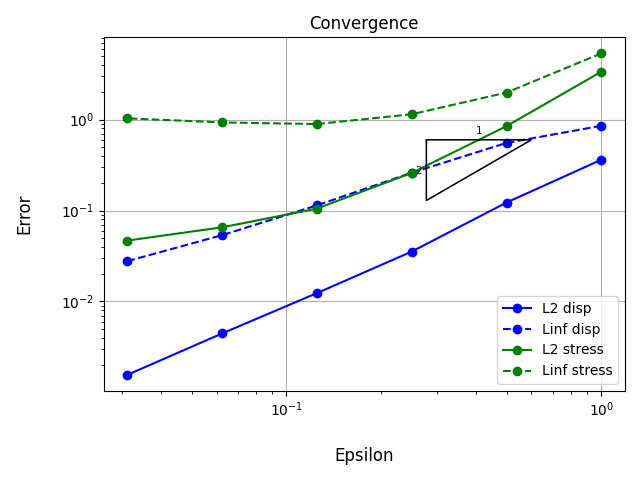
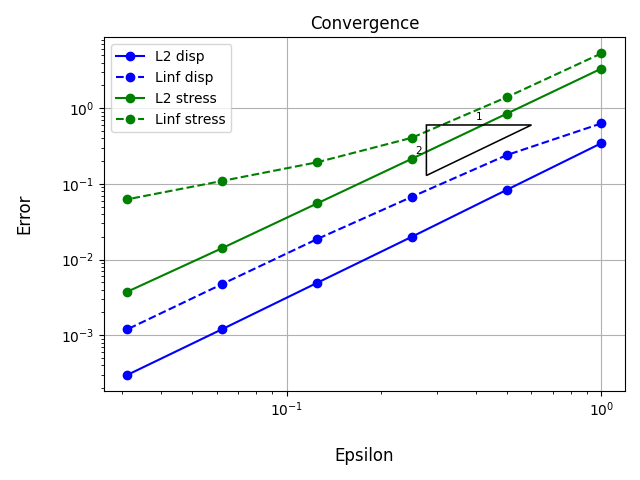
final fix for dirichlet bc

diff --git a/xlb/experimental/thermo_mechanical/solid_bounceback.py b/xlb/experimental/thermo_mechanical/solid_bounceback.py
@@ -73,7 +73,7 @@ class SolidsDirichlet(Operator):
                         #bounceback with zero order correction
                         f_current[new_direction, i, j, 0] = f_previous[l, i, j, 0] + 6.0 * weight * (x_dir * u_x+ y_dir * u_y)
                         #add first order correction
-                        if wp.abs(x_dir) + wp.abs(y_dir) > 1:
+                        if wp.abs(x_dir) + wp.abs(y_dir) < 2:
                             f_current[new_direction, i, j, 0] += 6.*weight*(q_ij - 0.5)*(wp.abs(x_dir)*dx_u_x + wp.abs(y_dir)*dy_u_y) 
                         else:
                             f_current[new_direction, i, j, 0] += 6.*weight*(q_ij-0.5)*(dx_u_x+dy_u_y+x_dir*y_dir*(cross_dev))

diff --git a/xlb/experimental/thermo_mechanical/solid_stepper.py b/xlb/experimental/thermo_mechanical/solid_stepper.py
@@ -88,7 +88,7 @@ class SolidsStepper(Stepper):
     @Operator.register_backend(ComputeBackend.WARP)
     def warp_implementation(self, f_current, f_previous):
         wp.launch(utils.copy_populations, inputs=[f_previous, self.temp_f, self.velocity_set.q], dim=f_current.shape[1:])
-        self.macroscopic(f_previous)
+        self.macroscopic(f_current)
         wp.launch(self.collision.warp_kernel, inputs=[f_current, self.force, self.omega, self.theta], dim=f_current.shape[1:])
         wp.launch(self.stream.warp_kernel, inputs=[f_current, f_previous], dim=f_current.shape[1:])
         if self.boundary_conditions != None:
